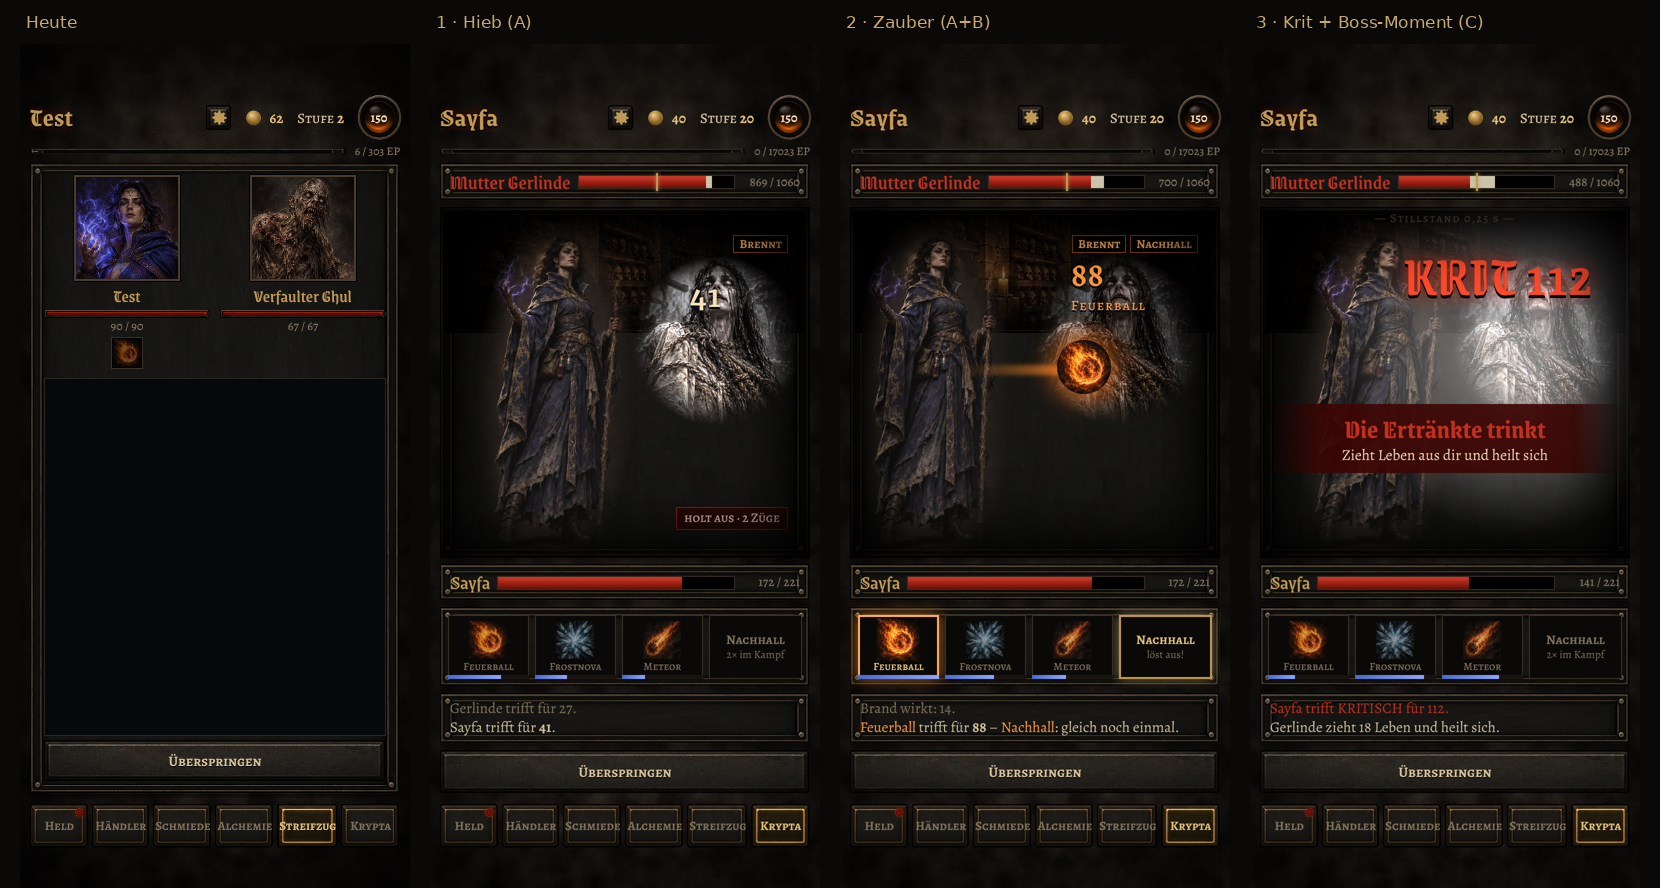
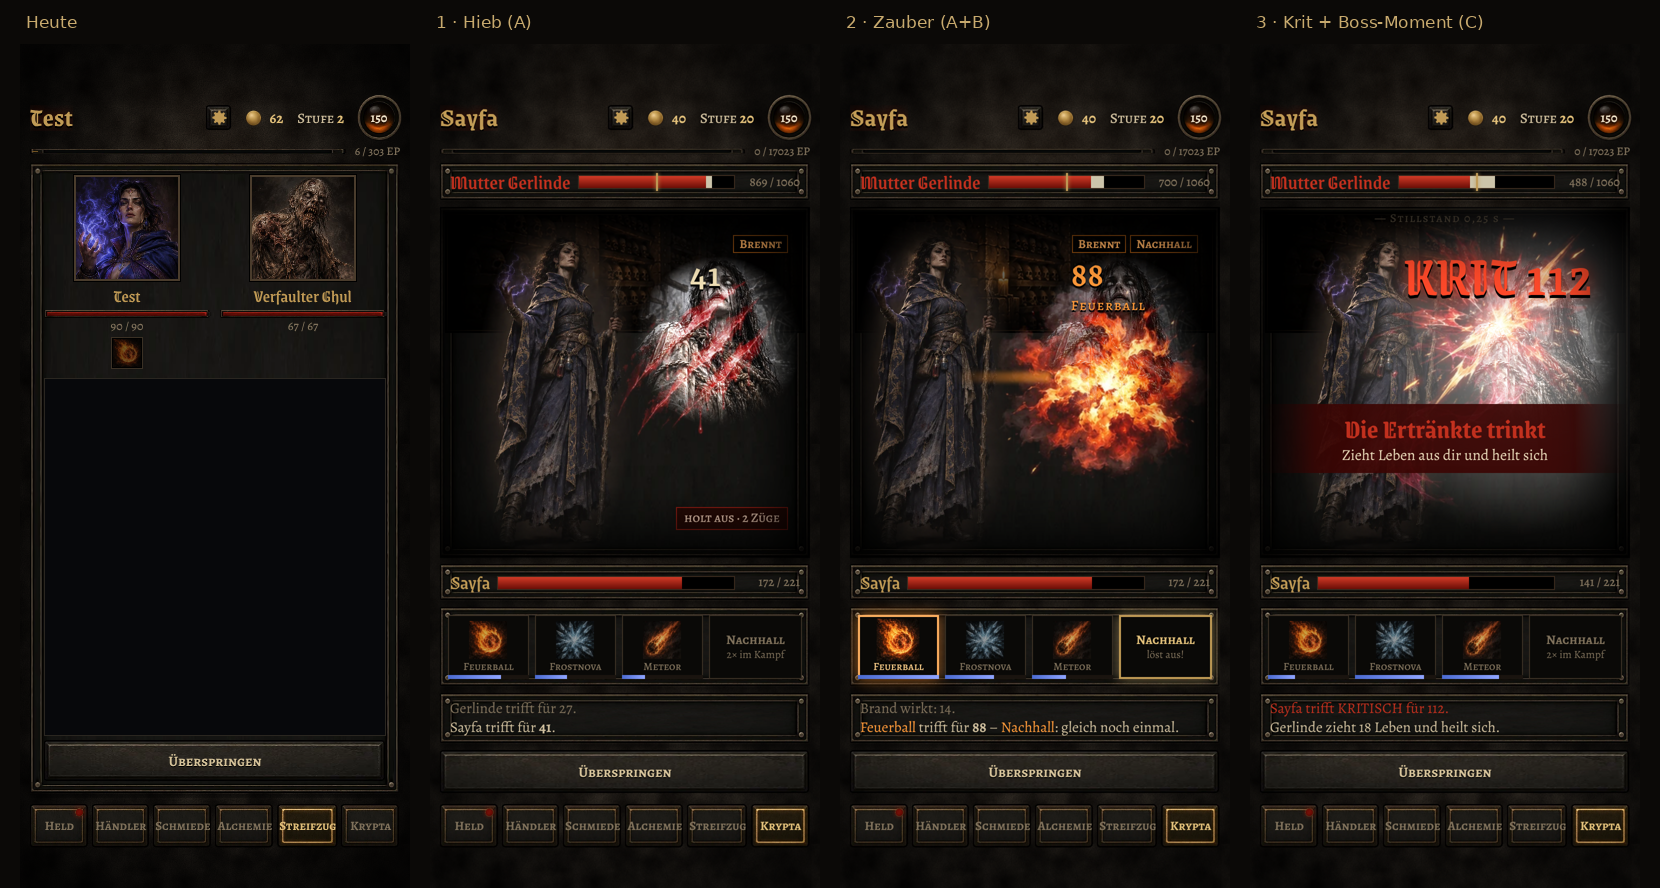
Effekt-Bilder (16, assets/effects) vom Besitzer + Mockup Kampf-Bühne mit Effekten
Hiebe (slash, impact, crit, blood), Abwehr (parry, evade, ward, heal), Elemente (fire, frost, meteor, poison),
Fertigkeiten/Boss (shout, whirl, shadow, drain). Auf reinem Schwarz, 256 px, für mix-blend-mode: screen –
kein Freistellen nötig. Noch nicht im Spiel verwendet.

Claude-Session: https://claude.ai/code/session_01K7GT1nTefDive85MZeLeT3

diff --git a/mockups/kampf-buehne.html b/mockups/kampf-buehne.html
@@ -114,6 +114,7 @@
 .kb .status { position: absolute; right: 6%; top: 8%; display: flex; gap: 4px; }
 .kb .status b { font-family: 'Alegreya SC'; font-size: .7rem; padding: 1px 6px; color: #ffb060; background: rgba(0,0,0,.7); box-shadow: inset 0 0 0 1px #8a4a10; }
 .kb .intent { position: absolute; right: 6%; bottom: 8%; font-family: 'Alegreya SC'; font-size: .74rem; color: #e8c6b0; background: rgba(40,8,4,.85); padding: 3px 8px; box-shadow: inset 0 0 0 1px #8a1c13; }
+.kb .fx { position: absolute; mix-blend-mode: screen; pointer-events: none; }
 .kb .flash { position: absolute; inset: 0; background: radial-gradient(circle at 70% 42%, rgba(255,255,255,.55), transparent 55%); }
 .kb .freeze { position: absolute; left: 0; right: 0; top: 0; text-align: center; font-family: 'Alegreya SC'; font-size: .68rem; color: var(--dim); padding-top: 4px; letter-spacing: .1em; }
 .kb .phase { position: absolute; left: 0; right: 0; top: 36%; text-align: center; background: linear-gradient(90deg, transparent, rgba(60,6,4,.92) 15%, rgba(60,6,4,.92) 85%, transparent); padding: 8px 0; }
@@ -136,21 +137,21 @@
 .kb .skip { height: 44px; width: 100%; }
 </style></head><body><div class="wrap"><div><div class="cap">1 · Hieb: die Figur stößt vor, der Gegner zuckt</div><div class="phone"><main><div class="kb">
   <section class="panel foe"><span class="nm">Mutter Gerlinde</span><div class="hpw"><i class="ghost" style="width:86%"></i><i class="now" style="width:82%"></i><span class="mark"></span></div><span class="hpt">869 / 1060</span></section>
-  <section class="panel stage"><div class="scene"></div><img class="hero lunge" src="../assets/heroes/sorceress.webp" alt=""><img class="mon hit" src="../assets/monsters/gerlinde.jpg" alt=""><div class="num" style="right:24%;top:18%">41</div><div class="status"><b>Brennt</b></div><div class="intent">holt aus · 2 Züge</div></section>
+  <section class="panel stage"><div class="scene"></div><img class="hero lunge" src="../assets/heroes/sorceress.webp" alt=""><img class="mon hit" src="../assets/monsters/gerlinde.jpg" alt=""><img class="fx" src="../assets/effects/slash.webp" style="right:6%;top:16%;width:50%"><div class="num" style="right:24%;top:12%">41</div><div class="status"><b>Brennt</b></div><div class="intent">holt aus · 2 Züge</div></section>
   <section class="panel me"><span class="nm">Sayfa</span><div class="hpw"><i class="now" style="width:78%"></i></div><span class="hpt">172 / 221</span></section>
   <section class="panel bar2"><div class="sp "><img src="../assets/spells/feuerball.webp" alt=""><small>Feuerball</small><div class="ld"><i style="width:66%"></i></div></div><div class="sp "><img src="../assets/spells/frost.webp" alt=""><small>Frostnova</small><div class="ld"><i style="width:40%"></i></div></div><div class="sp "><img src="../assets/spells/meteor.webp" alt=""><small>Meteor</small><div class="ld"><i style="width:28%"></i></div></div>
   <div class="ks "><b>Nachhall</b><small>2× im Kampf</small></div></section>
   <section class="panel tick"><p>Gerlinde trifft für 27.</p><p>Sayfa trifft für <b>41</b>.</p></section>
   <button class="skip">Überspringen</button></div></main></div></div><div><div class="cap">2 · Zauber: Feuerball lädt voll, fliegt, Nachhall leuchtet</div><div class="phone"><main><div class="kb">
   <section class="panel foe"><span class="nm">Mutter Gerlinde</span><div class="hpw"><i class="ghost" style="width:74%"></i><i class="now" style="width:66%"></i><span class="mark"></span></div><span class="hpt">700 / 1060</span></section>
-  <section class="panel stage"><div class="scene"></div><img class="hero " src="../assets/heroes/sorceress.webp" alt=""><img class="mon " src="../assets/monsters/gerlinde.jpg" alt=""><div class="trail" style="left:30%;top:44%;width:30%"></div><img class="proj" src="../assets/spells/feuerball.webp" style="left:56%;top:38%" alt=""><div class="num fire" style="right:20%;top:12%">88<small>Feuerball</small></div><div class="status"><b>Brennt</b><b>Nachhall</b></div></section>
+  <section class="panel stage"><div class="scene"></div><img class="hero " src="../assets/heroes/sorceress.webp" alt=""><img class="mon " src="../assets/monsters/gerlinde.jpg" alt=""><div class="trail" style="left:28%;top:46%;width:26%"></div><img class="fx" src="../assets/effects/fire.webp" style="right:2%;top:20%;width:60%"><div class="num fire" style="right:20%;top:12%">88<small>Feuerball</small></div><div class="status"><b>Brennt</b><b>Nachhall</b></div></section>
   <section class="panel me"><span class="nm">Sayfa</span><div class="hpw"><i class="now" style="width:78%"></i></div><span class="hpt">172 / 221</span></section>
   <section class="panel bar2"><div class="sp fire"><img src="../assets/spells/feuerball.webp" alt=""><small>Feuerball</small><div class="ld"><i style="width:100%"></i></div></div><div class="sp "><img src="../assets/spells/frost.webp" alt=""><small>Frostnova</small><div class="ld"><i style="width:60%"></i></div></div><div class="sp "><img src="../assets/spells/meteor.webp" alt=""><small>Meteor</small><div class="ld"><i style="width:42%"></i></div></div>
   <div class="ks on"><b>Nachhall</b><small>löst aus!</small></div></section>
   <section class="panel tick"><p>Brand wirkt: 14.</p><p><span class="up">Feuerball</span> trifft für <b>88</b> – <span class="up">Nachhall</span>: gleich noch einmal.</p></section>
   <button class="skip">Überspringen</button></div></main></div></div><div><div class="cap">3 · Krit + Boss-Moment: Stillstand, Nachschatten, Mechanik als Banner</div><div class="phone"><main><div class="kb">
   <section class="panel foe"><span class="nm">Mutter Gerlinde</span><div class="hpw"><i class="ghost" style="width:62%"></i><i class="now" style="width:46%"></i><span class="mark"></span></div><span class="hpt">488 / 1060</span></section>
-  <section class="panel stage"><div class="scene"></div><img class="hero lunge" src="../assets/heroes/sorceress.webp" alt=""><img class="mon hit" src="../assets/monsters/gerlinde.jpg" alt=""><div class="flash"></div><div class="freeze">— Stillstand 0,25 s —</div><div class="num crit" style="right:10%;top:9%">KRIT 112</div><div class="phase" style="top:56%"><b>Die Ertränkte trinkt</b><small>Zieht Leben aus dir und heilt sich</small></div></section>
+  <section class="panel stage"><div class="scene"></div><img class="hero lunge" src="../assets/heroes/sorceress.webp" alt=""><img class="mon hit" src="../assets/monsters/gerlinde.jpg" alt=""><img class="fx" src="../assets/effects/crit.webp" style="right:8%;top:2%;width:58%"><img class="fx" src="../assets/effects/drain.webp" style="left:22%;top:30%;width:56%"><div class="flash"></div><div class="freeze">— Stillstand 0,25 s —</div><div class="num crit" style="right:10%;top:9%">KRIT 112</div><div class="phase" style="top:56%"><b>Die Ertränkte trinkt</b><small>Zieht Leben aus dir und heilt sich</small></div></section>
   <section class="panel me"><span class="nm">Sayfa</span><div class="hpw"><i class="now" style="width:64%"></i></div><span class="hpt">141 / 221</span></section>
   <section class="panel bar2"><div class="sp "><img src="../assets/spells/feuerball.webp" alt=""><small>Feuerball</small><div class="ld"><i style="width:33%"></i></div></div><div class="sp "><img src="../assets/spells/frost.webp" alt=""><small>Frostnova</small><div class="ld"><i style="width:85%"></i></div></div><div class="sp "><img src="../assets/spells/meteor.webp" alt=""><small>Meteor</small><div class="ld"><i style="width:71%"></i></div></div>
   <div class="ks "><b>Nachhall</b><small>2× im Kampf</small></div></section>
